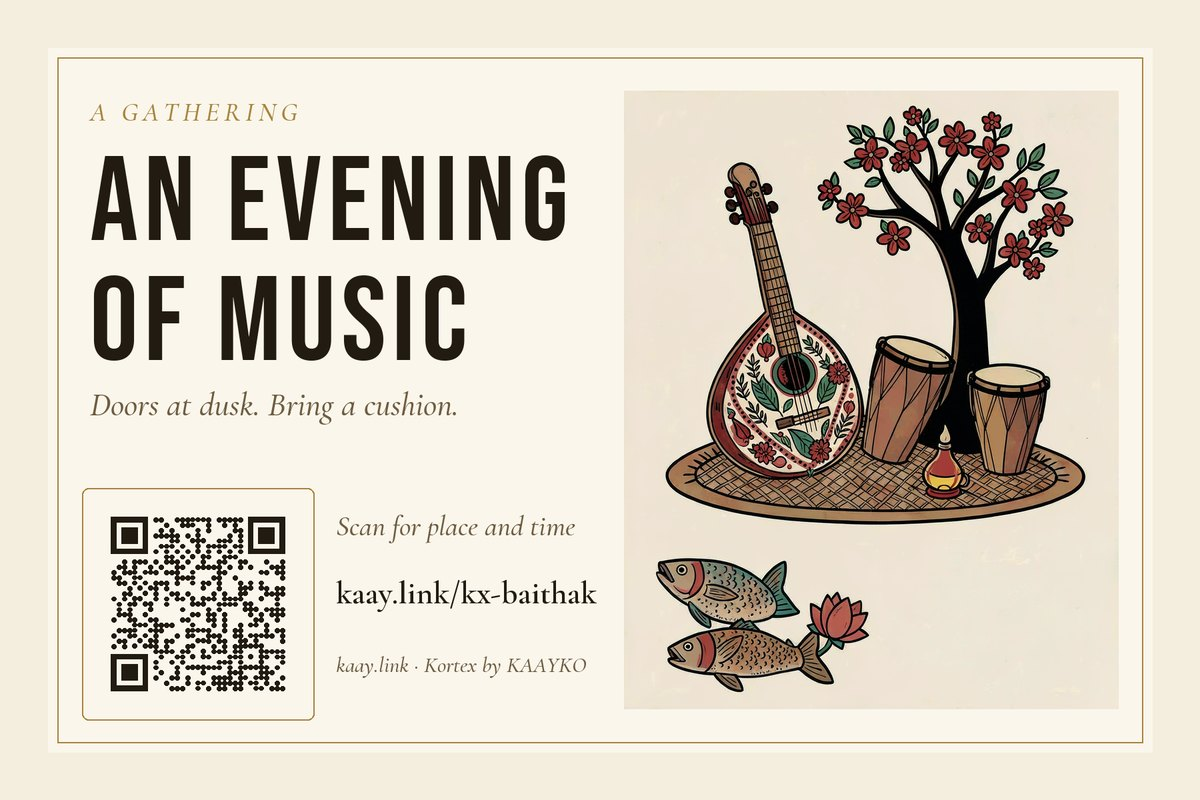
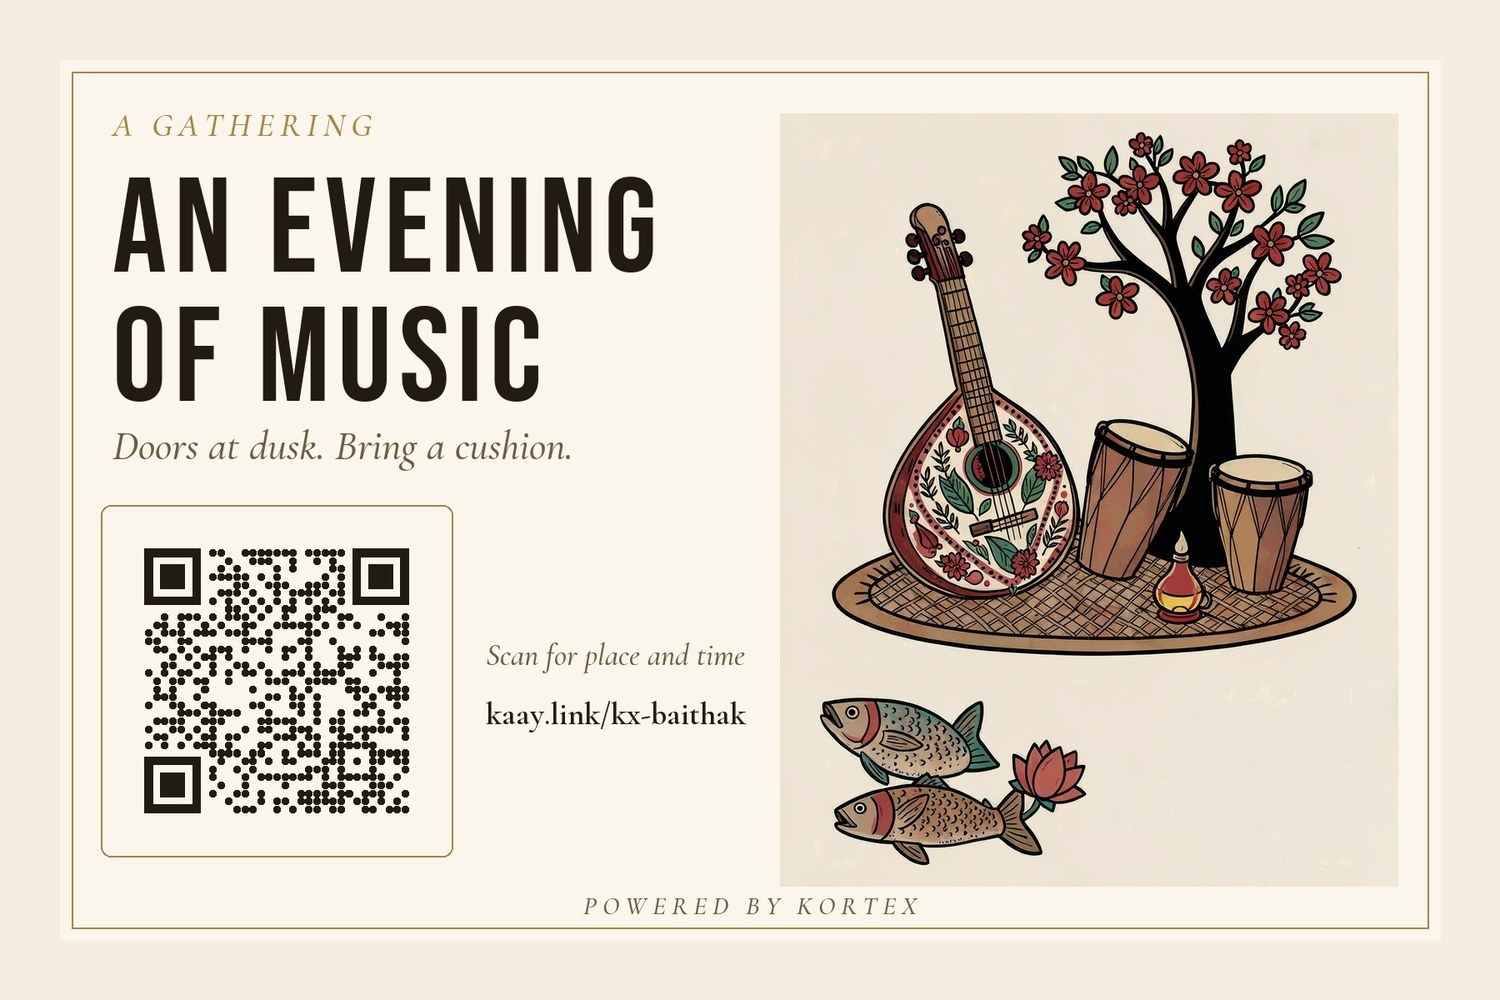
Kortex cards: Mom's Shop is kaay.link/mum-shop-20 with a real 20% friends' rate at the till
- run-19 cards: bigger code, 'Powered by Kortex' on every card, no side line
- Asha's story: friends get her card and 20% off; tracks who used it
- store: kaay.store/s/<slug>?promo=CODE asks the server what the code is
  worth, holds it for the bag and says so in the banner
- cart: a promo has no hour on it and reads as '20% off the pieces on
  Mom's Shop. Taken off when you pay.'
- sample code KX-DEMO-SHELF opens mum-shop-20

diff --git a/src/js/pages/store.js b/src/js/pages/store.js
@@ -12,6 +12,8 @@ import { setProductTypes } from "/js/productTypes.js";
 import { populateCarousel, setupModalCloseHandlers } from "/js/kaayko_ui.js";
 import { storeOriginalProducts } from "/js/kaaykoFilterModal.js";
 import { esc } from "/js/kit.js";
+import { checkCode, savePromo, savedReward } from "/js/arcade/reward.js";
+import { show as showToast } from "/js/components/Toast.js";
 
 void cartManager;
 
@@ -25,6 +27,22 @@ function renderFailure(message) {
       <button type="button" class="store-back-link store-retry" data-action="retry">Try again</button>
     </div>`;
   carousel.querySelector('[data-action="retry"]').addEventListener("click", () => location.reload());
+}
+
+/**
+ * Check a promo code from the address and keep it if the server honours it.
+ * @returns {Promise<{code:string, percent:number, label:string|null}|null>}
+ */
+async function holdPromo(raw) {
+  const code = String(raw || "").trim().toUpperCase().slice(0, 32);
+  if (!code) return null;
+  const held = savedReward();
+  if (held?.kind === "promo" && held.code === code) return { code, percent: held.percent, label: held.label || null };
+  const res = await checkCode(code);
+  if (!res?.success || res.kind !== "promo" || !res.valid) return null;
+  savePromo({ code, percent: res.percent, scope: res.scope, label: res.label });
+  showToast(`${res.percent}% off is held for your bag.`, { kind: "good" });
+  return { code, percent: res.percent, label: res.label || null };
 }
 
 document.addEventListener("DOMContentLoaded", async () => {
@@ -52,6 +70,9 @@ document.addEventListener("DOMContentLoaded", async () => {
   const pathSegs = location.pathname.split("/").filter(Boolean);
   const pathSlug = pathSegs[0] === "s" && pathSegs[1] ? decodeURIComponent(pathSegs[1]) : "";
   const storeSlug = params.get("store") || pathSlug;
+  // A maker's card can carry her friends' rate: kaay.store/s/<slug>?promo=CODE.
+  // The server says what the code is worth; this only holds it for the bag.
+  const promoHeld = await holdPromo(params.get("promo"));
 
   if (pid) {
     const match = products.find((p) => p.productID === pid);
@@ -85,6 +106,7 @@ document.addEventListener("DOMContentLoaded", async () => {
         <div class="store-banner-content">
           <h2 class="store-banner-name">${esc(storeName)}</h2>
           <p class="store-banner-count">${storeProducts.length} piece${storeProducts.length !== 1 ? "s" : ""}, printed to order</p>
+          ${promoHeld ? `<p class="store-banner-promo">${esc(promoHeld.percent)}% off for friends is held for your bag. Code ${esc(promoHeld.code)}.</p>` : ""}
           <a href="/" class="store-banner-link">All pieces</a>
         </div>`;
       carousel.parentNode.insertBefore(banner, carousel);

diff --git a/src/js/pages/cart.js b/src/js/pages/cart.js
@@ -8,7 +8,7 @@
  * catalogue (kaayko-api/functions/api/checkout/pricing.js).
  */
 import { cartManager } from '/js/cartManager.js';
-import { savedReward, clearReward, checkCode, minutesLeft, clientToken } from '/js/arcade/reward.js';
+import { savedReward, clearReward, checkCode, minutesLeft, clientToken, savePromo } from '/js/arcade/reward.js';
 import { esc, money } from '/js/kit.js';
 import { createPaymentIntent, calculateTax as requestTax, updateContact } from '/js/services/storeApi.js';
 import { show as showToast } from '/js/components/Toast.js';
@@ -89,6 +89,7 @@ const REWARD_REFUSALS = {
   EXPIRED:          'That code has expired. They only last an hour.',
   WRONG_OWNER:      'That code was won under a different email.',
   NO_ELIGIBLE_ITEMS:'That code does not cover anything in this bag.',
+  PROMO_INACTIVE:   'That code is no longer on offer.',
   EMPTY_CART:       'Nothing in the bag to discount.',
   LOCKED:           'No discount applies while you are carrying a paste penalty. Beg it off on any product page.',
   VOIDED:           'That code was won before you pasted. Pasting cancelled it.'
@@ -108,6 +109,7 @@ function rewardFieldMarkup() {
       </div>
       <p class="co-reward-note" id="co-reward-note" role="status" aria-live="polite">${
         state.rewardNote ? esc(state.rewardNote)
+        : r?.kind === 'promo' ? `${r.percent}% off${r.label ? ` ${esc(r.label)}` : r.scope === 'cart' ? ' the whole bag' : ' the pieces on that shelf'}. Taken off when you pay.`
         : r ? `${r.percent}% held${r.scope === 'cart' ? ' against the whole bag' : ' against the eligible items'}. ${
             left > 0 ? `Expires in ${left} minute${left === 1 ? '' : 's'}.` : 'Expired.'}`
         : 'Won one on a product page? Put it in. Codes last an hour.'
@@ -354,6 +356,14 @@ function wireRewardField() {
     btn.disabled = false;
 
     if (!res?.success) { note.textContent = 'No such code.'; return; }
+    if (res.kind === 'promo') {
+      if (!res.valid) { note.textContent = res.expired ? 'That code has run out.' : REWARD_REFUSALS.PROMO_INACTIVE; return; }
+      state.reward = { code, percent: res.percent, scope: res.scope, kind: 'promo', label: res.label || null, expiresAt: null };
+      savePromo(state.reward);
+      state.rewardNote = null; state.pi = null; state.step = 'bag';
+      render();
+      return;
+    }
     if (res.expired)   { note.textContent = 'That code has expired. They only last an hour.'; return; }
     if (res.redeemed)  { note.textContent = 'That code has already been used.'; return; }
     if (res.voided)    { note.textContent = 'That code was won before you pasted. Pasting cancelled it.'; return; }

diff --git a/link-site/index.html b/link-site/index.html
@@ -649,8 +649,8 @@ details.options details.options { margin:var(--sp-4) 0 0; padding-top:var(--sp-2
         <div class="kface front"><img src="/assets/cards/moms-shop-card.jpg" alt="Mom's Shop card" width="1200" height="800" loading="lazy"></div>
         <div class="kface back">
           <h3>Asha, 60, who opened her shelf this summer</h3>
-          <p class="kstory">Four totes on kaay.store, one card in every bag. She <a class="klink" href="#manage" data-demo-code="KX-DEMO-SHELF" data-stop>tracks</a> who reached the shelf, from which stall, and at what hour.</p>
-          <p class="case-rule">kaay.link/kx-shelf</p>
+          <p class="kstory">Four totes on kaay.store. Friends get her card and 20% off at the till. She <a class="klink" href="#manage" data-demo-code="KX-DEMO-SHELF" data-stop>tracks</a> who used it, from which stall, and at what hour.</p>
+          <p class="case-rule">kaay.link/mum-shop-20</p>
         </div>
       </div>
       <p class="ktap">Tap the card</p>

diff --git a/src/kortex.html b/src/kortex.html
@@ -649,8 +649,8 @@ details.options details.options { margin:var(--sp-4) 0 0; padding-top:var(--sp-2
         <div class="kface front"><img src="/assets/cards/moms-shop-card.jpg" alt="Mom's Shop card" width="1200" height="800" loading="lazy"></div>
         <div class="kface back">
           <h3>Asha, 60, who opened her shelf this summer</h3>
-          <p class="kstory">Four totes on kaay.store, one card in every bag. She <a class="klink" href="#manage" data-demo-code="KX-DEMO-SHELF" data-stop>tracks</a> who reached the shelf, from which stall, and at what hour.</p>
-          <p class="case-rule">kaay.link/kx-shelf</p>
+          <p class="kstory">Four totes on kaay.store. Friends get her card and 20% off at the till. She <a class="klink" href="#manage" data-demo-code="KX-DEMO-SHELF" data-stop>tracks</a> who used it, from which stall, and at what hour.</p>
+          <p class="case-rule">kaay.link/mum-shop-20</p>
         </div>
       </div>
       <p class="ktap">Tap the card</p>

diff --git a/src/js/kortex-app.js b/src/js/kortex-app.js
@@ -79,7 +79,7 @@ function forgetSampleSession() { const s = guestSession(); if (s && s.workspaceI
 /* Demo codes: the three cards on the page. Opening one issues a read-only
    session for the sample workspace and shows ONLY that card's link, so a
    visitor sees exactly what the owner of that card would see. */
-const DEMO_CODES = { 'KX-DEMO-LAKE': 'kx-lakecard', 'KX-DEMO-SHELF': 'kx-shelf', 'KX-DEMO-BAITHAK': 'kx-baithak' };
+const DEMO_CODES = { 'KX-DEMO-LAKE': 'kx-lakecard', 'KX-DEMO-SHELF': 'mum-shop-20', 'KX-DEMO-BAITHAK': 'kx-baithak' };
 function demoCodeOf(raw) { const k = String(raw || '').trim().toUpperCase().replace(/\s+/g, ''); return DEMO_CODES[k] || null; }
 let demoFocus = null;
 /* The session is gone (expired, or the workspace was switched off): show the code entry again, say so, and focus it. */

diff --git a/src/js/arcade/reward.js b/src/js/arcade/reward.js
@@ -72,6 +72,20 @@ export function saveReward(r) {
   } catch (_) { /* private browsing: the code is still on screen to copy */ }
 }
 
+/**
+ * A handed-out promo (a maker's friends' rate, printed on a card). Kept until
+ * the shopper removes it or the server says no; there is no hour on it.
+ * @param {{code:string, percent:number, scope?:string, label?:string|null}} r
+ */
+export function savePromo(r) {
+  try {
+    localStorage.setItem(KEY, JSON.stringify({
+      code: String(r.code).toUpperCase(), percent: r.percent, scope: r.scope || "store",
+      kind: "promo", label: r.label || null, mintedAt: Date.now(), expiresAt: null
+    }));
+  } catch (_) {}
+}
+
 /** The stored code, or null if there is none or it has run out. */
 export function savedReward() {
   try {

diff --git a/src/css/storestyle.css b/src/css/storestyle.css
@@ -691,6 +691,10 @@ Sustainability Alert Modal
   content: ''; display: block; width: min(38%, 220px); height: 1px; margin: 14px auto 0;
   background: linear-gradient(90deg, transparent, var(--color-accent, #a8843c), transparent);
 }
+.store-banner-promo {
+  margin: 12px auto 0; max-width: 34em; font-style: italic; font-size: 1.02rem;
+  color: var(--color-accent, #a8843c);
+}
 .store-banner-link {
   display: inline-block;
   font-family: var(--font-serif, 'Cormorant Garamond', Georgia, serif);
